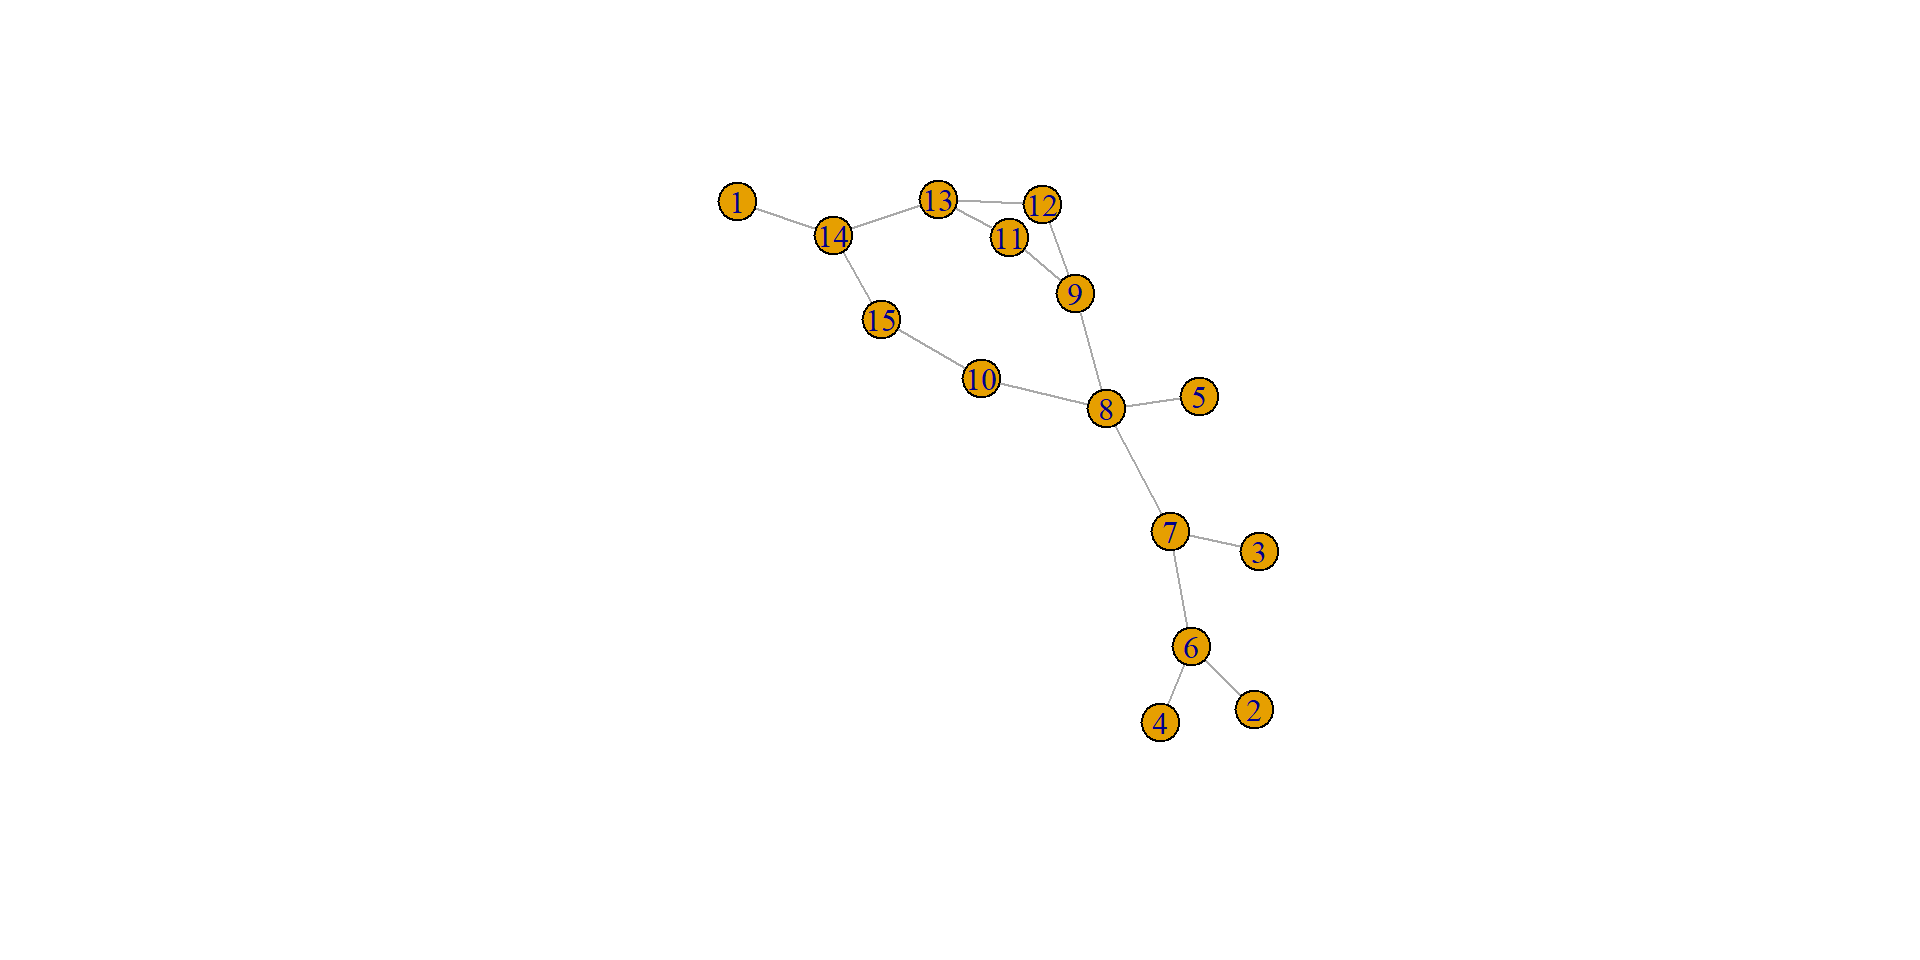
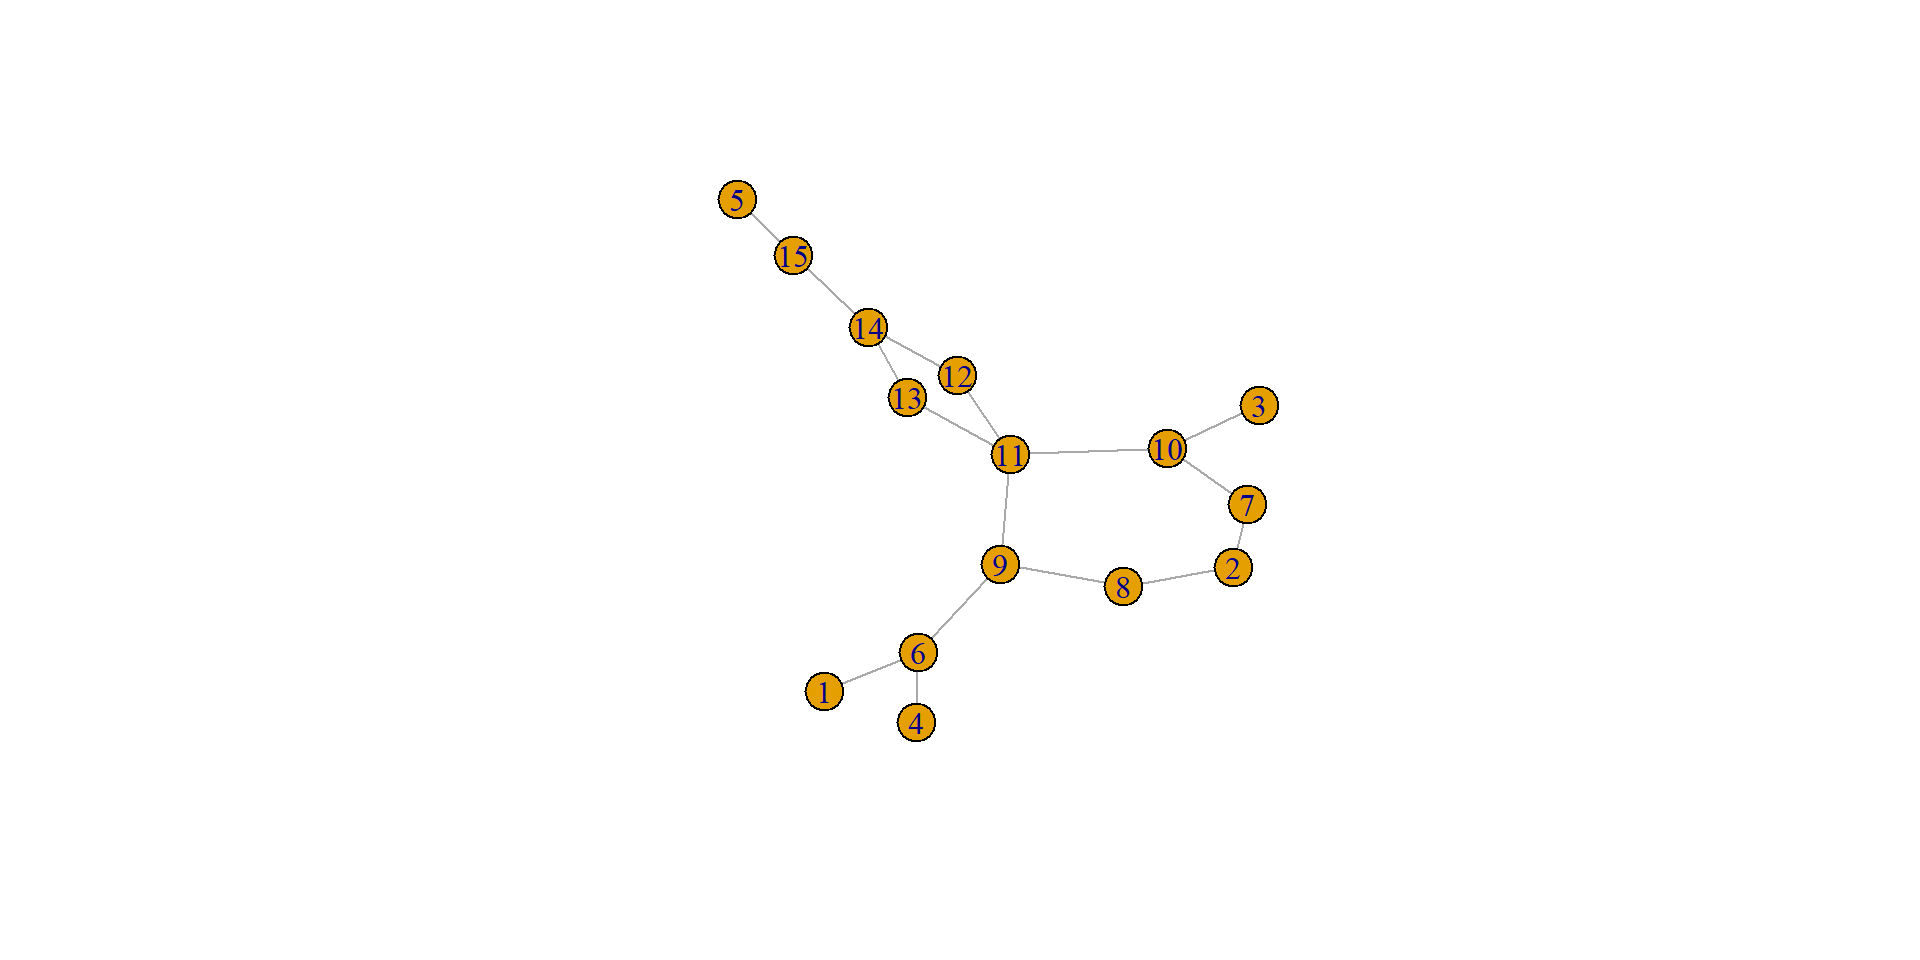
new quarto presentation

diff --git a/05_23_presentation.html b/05_23_presentation.html
@@ -215,7 +215,7 @@ Haochu
 <details class="code-fold">
 <summary>expand for full code</summary>
 <div class="sourceCode cell-code" id="cb1"><pre class="sourceCode numberSource r number-lines code-with-copy"><code class="sourceCode r"><span id="cb1-1"><a href=""></a><span class="fu">source</span>(<span class="st">"sim_gene/sim_ARG.r"</span>)</span>
-<span id="cb1-2"><a href=""></a><span class="fu">set.seed</span>(<span class="dv">10</span>)</span>
+<span id="cb1-2"><a href=""></a><span class="fu">set.seed</span>(<span class="dv">11</span>)</span>
 <span id="cb1-3"><a href=""></a>tree <span class="ot">&lt;-</span> <span class="fu">sim_ARG</span>(<span class="dv">5</span>, <span class="dv">1</span>)</span>
 <span id="cb1-4"><a href=""></a>tree_matrix <span class="ot">&lt;-</span> <span class="fu">as.matrix</span>(tree<span class="sc">$</span>edge[, <span class="fu">c</span>(<span class="dv">1</span>, <span class="dv">2</span>)])</span>
 <span id="cb1-5"><a href=""></a>g <span class="ot">&lt;-</span> <span class="fu">graph_from_edgelist</span>(tree_matrix, <span class="at">directed =</span> <span class="cn">FALSE</span>)</span>
@@ -225,14 +225,14 @@ Haochu
 
 </div>
 <img data-src="05_23_presentation_files/figure-revealjs/unnamed-chunk-2-1.png" width="960" class="r-stretch"></section>
-<section id="event-time" class="slide level2">
-<h2>Event Time</h2>
+<section id="birth-and-death-process" class="slide level2">
+<h2>Birth and Death Process</h2>
 <p>We can consider the coalescent and recombination as a birth and death process. Let <span class="math inline">\(N(t)\)</span> be the number of alleles at time <span class="math inline">\(t\)</span>. The birth rate is <span class="math inline">\(\rho N(t)/2\)</span>, and the death rate is <span class="math inline">\(N(t)(N(t)-1)/2\)</span>. And the deterministic expression of <span class="math inline">\(N(t)\)</span> is <span class="math display">\[
 \frac{dN(t)}{dt} = \frac{\rho N(t) - N(t)^2 + N(t)}{2}.
 \]</span></p>
 </section>
-<section id="event-time-1" class="slide level2">
-<h2>Event Time</h2>
+<section id="birth-and-death-process-1" class="slide level2">
+<h2>Birth and Death Process</h2>
 <p>Run the simulation 10 times with initially <span class="math inline">\(20\)</span> alleles and <span class="math inline">\(\rho=1\)</span>.</p>
 
 <img data-src="05_23_presentation_files/figure-revealjs/unnamed-chunk-3-1.png" width="960" class="r-stretch"></section>
@@ -248,23 +248,23 @@ Haochu
 </details>
 <div class="cell-output cell-output-stdout">
 <pre><code># A tibble: 15 × 5
-   index  height material      gene      gene_str             
-   &lt;int&gt;   &lt;dbl&gt; &lt;list&gt;        &lt;list&gt;    &lt;chr&gt;                
- 1     1 0       &lt;iv&lt;dbl&gt; [1]&gt; &lt;dbl [2]&gt; [0.137, 0.48]        
- 2     2 0       &lt;iv&lt;dbl&gt; [1]&gt; &lt;dbl [3]&gt; [0.147, 0.226, 0.266]
- 3     3 0       &lt;iv&lt;dbl&gt; [1]&gt; &lt;dbl [2]&gt; [0.226, 0.266]       
- 4     4 0       &lt;iv&lt;dbl&gt; [1]&gt; &lt;dbl [3]&gt; [0.147, 0.226, 0.266]
- 5     5 0       &lt;iv&lt;dbl&gt; [1]&gt; &lt;dbl [2]&gt; [0.226, 0.266]       
- 6    10 0.00120 &lt;iv&lt;dbl&gt; [1]&gt; &lt;dbl [3]&gt; [0.147, 0.226, 0.266]
- 7    11 0.306   &lt;iv&lt;dbl&gt; [1]&gt; &lt;dbl [2]&gt; [0.226, 0.266]       
- 8    12 0.358   &lt;iv&lt;dbl&gt; [1]&gt; &lt;dbl [2]&gt; [0.226, 0.266]       
- 9    13 1.52    &lt;iv&lt;dbl&gt; [1]&gt; &lt;dbl [0]&gt; []                   
-10    14 1.52    &lt;iv&lt;dbl&gt; [1]&gt; &lt;dbl [2]&gt; [0.226, 0.266]       
-11    15 1.81    &lt;iv&lt;dbl&gt; [1]&gt; &lt;dbl [0]&gt; []                   
-12    16 1.81    &lt;iv&lt;dbl&gt; [0]&gt; &lt;dbl [0]&gt; []                   
-13    17 1.95    &lt;iv&lt;dbl&gt; [1]&gt; &lt;dbl [0]&gt; []                   
-14    18 2.31    &lt;iv&lt;dbl&gt; [1]&gt; &lt;dbl [0]&gt; []                   
-15    19 2.46    &lt;iv&lt;dbl&gt; [1]&gt; &lt;dbl [0]&gt; []                   </code></pre>
+   index height material      gene      gene_str
+   &lt;int&gt;  &lt;dbl&gt; &lt;list&gt;        &lt;list&gt;    &lt;chr&gt;   
+ 1     1 0      &lt;iv&lt;dbl&gt; [1]&gt; &lt;dbl [1]&gt; [0.216] 
+ 2     2 0      &lt;iv&lt;dbl&gt; [1]&gt; &lt;dbl [1]&gt; [0.216] 
+ 3     3 0      &lt;iv&lt;dbl&gt; [1]&gt; &lt;dbl [1]&gt; [0.216] 
+ 4     4 0      &lt;iv&lt;dbl&gt; [1]&gt; &lt;dbl [1]&gt; [0.216] 
+ 5     5 0      &lt;iv&lt;dbl&gt; [1]&gt; &lt;dbl [1]&gt; [0.521] 
+ 6    10 0.0642 &lt;iv&lt;dbl&gt; [1]&gt; &lt;dbl [1]&gt; [0.216] 
+ 7    11 0.0717 &lt;iv&lt;dbl&gt; [1]&gt; &lt;dbl [1]&gt; [0.216] 
+ 8    12 0.0717 &lt;iv&lt;dbl&gt; [1]&gt; &lt;dbl [1]&gt; [0.216] 
+ 9    13 0.174  &lt;iv&lt;dbl&gt; [1]&gt; &lt;dbl [1]&gt; [0.216] 
+10    14 0.380  &lt;iv&lt;dbl&gt; [1]&gt; &lt;dbl [1]&gt; [0.216] 
+11    15 0.635  &lt;iv&lt;dbl&gt; [1]&gt; &lt;dbl [1]&gt; [0.216] 
+12    16 1.28   &lt;iv&lt;dbl&gt; [1]&gt; &lt;dbl [0]&gt; []      
+13    17 1.28   &lt;iv&lt;dbl&gt; [1]&gt; &lt;dbl [0]&gt; []      
+14    18 1.28   &lt;iv&lt;dbl&gt; [1]&gt; &lt;dbl [0]&gt; []      
+15    19 1.60   &lt;iv&lt;dbl&gt; [1]&gt; &lt;dbl [0]&gt; []      </code></pre>
 </div>
 </div>
 </section>
@@ -275,30 +275,57 @@ Haochu
 <details class="code-fold">
 <summary>expand for full code</summary>
 <div class="sourceCode cell-code" id="cb4"><pre class="sourceCode numberSource r number-lines code-with-copy"><code class="sourceCode r"><span id="cb4-1"><a href=""></a><span class="fu">source</span>(<span class="st">"sim_gene/local_ARG.r"</span>)</span>
-<span id="cb4-2"><a href=""></a>local_tree <span class="ot">&lt;-</span> <span class="fu">local_ARG</span>(tree, <span class="fl">0.5</span>)</span>
-<span id="cb4-3"><a href=""></a>local_tree_matrix <span class="ot">&lt;-</span> <span class="fu">as.matrix</span>(local_tree<span class="sc">$</span>edge[, <span class="fu">c</span>(<span class="dv">1</span>, <span class="dv">2</span>)])</span>
-<span id="cb4-4"><a href=""></a>local_g <span class="ot">&lt;-</span> <span class="fu">graph_from_edgelist</span>(local_tree_matrix, <span class="at">directed =</span> <span class="cn">FALSE</span>)</span>
-<span id="cb4-5"><a href=""></a>local_g <span class="ot">&lt;-</span> <span class="fu">delete_vertices</span>(local_g, <span class="fu">V</span>(local_g)[<span class="fu">degree</span>(local_g) <span class="sc">==</span> <span class="dv">0</span>])</span>
-<span id="cb4-6"><a href=""></a><span class="fu">plot</span>(local_g)</span></code><button title="Copy to Clipboard" class="code-copy-button"><i class="bi"></i></button></pre></div>
+<span id="cb4-2"><a href=""></a>local_tree1 <span class="ot">&lt;-</span> <span class="fu">local_ARG</span>(tree, <span class="fl">0.1</span>)</span>
+<span id="cb4-3"><a href=""></a>local_tree1_matrix <span class="ot">&lt;-</span> <span class="fu">as.matrix</span>(local_tree1<span class="sc">$</span>edge[, <span class="fu">c</span>(<span class="dv">1</span>, <span class="dv">2</span>)])</span>
+<span id="cb4-4"><a href=""></a>local_g1 <span class="ot">&lt;-</span> <span class="fu">graph_from_edgelist</span>(local_tree1_matrix, <span class="at">directed =</span> <span class="cn">FALSE</span>)</span>
+<span id="cb4-5"><a href=""></a>local_g1 <span class="ot">&lt;-</span> <span class="fu">delete_vertices</span>(local_g1, <span class="fu">V</span>(local_g1)[<span class="fu">degree</span>(local_g1) <span class="sc">==</span> <span class="dv">0</span>])</span>
+<span id="cb4-6"><a href=""></a><span class="fu">plot</span>(local_g1)</span></code><button title="Copy to Clipboard" class="code-copy-button"><i class="bi"></i></button></pre></div>
 </details>
 
 </div>
 <img data-src="05_23_presentation_files/figure-revealjs/unnamed-chunk-5-1.png" width="960" class="r-stretch"></section>
 <section id="local-arg-1" class="slide level2">
 <h2>Local ARG</h2>
+<div class="cell">
+<details class="code-fold">
+<summary>expand for full code</summary>
+<div class="sourceCode cell-code" id="cb5"><pre class="sourceCode numberSource r number-lines code-with-copy"><code class="sourceCode r"><span id="cb5-1"><a href=""></a>local_tree2 <span class="ot">&lt;-</span> <span class="fu">local_ARG</span>(tree, <span class="fl">0.2</span>)</span>
+<span id="cb5-2"><a href=""></a>local_tree2_matrix <span class="ot">&lt;-</span> <span class="fu">as.matrix</span>(local_tree2<span class="sc">$</span>edge[, <span class="fu">c</span>(<span class="dv">1</span>, <span class="dv">2</span>)])</span>
+<span id="cb5-3"><a href=""></a>local_g2 <span class="ot">&lt;-</span> <span class="fu">graph_from_edgelist</span>(local_tree2_matrix, <span class="at">directed =</span> <span class="cn">FALSE</span>)</span>
+<span id="cb5-4"><a href=""></a>local_g2 <span class="ot">&lt;-</span> <span class="fu">delete_vertices</span>(local_g2, <span class="fu">V</span>(local_g2)[<span class="fu">degree</span>(local_g2) <span class="sc">==</span> <span class="dv">0</span>])</span>
+<span id="cb5-5"><a href=""></a><span class="fu">plot</span>(local_g2)</span></code><button title="Copy to Clipboard" class="code-copy-button"><i class="bi"></i></button></pre></div>
+</details>
+
+</div>
+<img data-src="05_23_presentation_files/figure-revealjs/unnamed-chunk-6-1.png" width="960" class="r-stretch"></section>
+<section id="local-arg-2" class="slide level2">
+<h2>Local ARG</h2>
 <p>Convert the our local ARG to a <code>phylo</code> object that can be plotted by <code>ape::plot.phylo</code>.</p>
 <div class="cell">
 <details class="code-fold">
 <summary>expand for full code</summary>
-<div class="sourceCode cell-code" id="cb5"><pre class="sourceCode numberSource r number-lines code-with-copy"><code class="sourceCode r"><span id="cb5-1"><a href=""></a><span class="fu">library</span>(ape)</span>
-<span id="cb5-2"><a href=""></a><span class="fu">source</span>(<span class="st">"sim_gene/localARG_to_phylo.r"</span>)</span>
-<span id="cb5-3"><a href=""></a>phylo_tree <span class="ot">&lt;-</span> <span class="fu">localARG_to_phylo</span>(local_tree)</span>
-<span id="cb5-4"><a href=""></a><span class="fu">plot</span>(phylo_tree)</span></code><button title="Copy to Clipboard" class="code-copy-button"><i class="bi"></i></button></pre></div>
+<div class="sourceCode cell-code" id="cb6"><pre class="sourceCode numberSource r number-lines code-with-copy"><code class="sourceCode r"><span id="cb6-1"><a href=""></a><span class="fu">library</span>(ape)</span>
+<span id="cb6-2"><a href=""></a><span class="fu">source</span>(<span class="st">"sim_gene/localARG_to_phylo.r"</span>)</span>
+<span id="cb6-3"><a href=""></a>phylo_tree1 <span class="ot">&lt;-</span> <span class="fu">localARG_to_phylo</span>(local_tree1)</span>
+<span id="cb6-4"><a href=""></a><span class="fu">plot</span>(phylo_tree1)</span></code><button title="Copy to Clipboard" class="code-copy-button"><i class="bi"></i></button></pre></div>
+</details>
+
+</div>
+<img data-src="05_23_presentation_files/figure-revealjs/unnamed-chunk-7-1.png" width="960" class="r-stretch"></section>
+<section id="local-arg-3" class="slide level2">
+<h2>Local ARG</h2>
+<div class="cell">
+<details class="code-fold">
+<summary>expand for full code</summary>
+<div class="sourceCode cell-code" id="cb7"><pre class="sourceCode numberSource r number-lines code-with-copy"><code class="sourceCode r"><span id="cb7-1"><a href=""></a><span class="fu">library</span>(ape)</span>
+<span id="cb7-2"><a href=""></a><span class="fu">source</span>(<span class="st">"sim_gene/localARG_to_phylo.r"</span>)</span>
+<span id="cb7-3"><a href=""></a>phylo_tree2 <span class="ot">&lt;-</span> <span class="fu">localARG_to_phylo</span>(local_tree2)</span>
+<span id="cb7-4"><a href=""></a><span class="fu">plot</span>(phylo_tree2)</span></code><button title="Copy to Clipboard" class="code-copy-button"><i class="bi"></i></button></pre></div>
 </details>
 
 </div>
 
-<img data-src="05_23_presentation_files/figure-revealjs/unnamed-chunk-6-1.png" width="960" class="r-stretch"></section>
+<img data-src="05_23_presentation_files/figure-revealjs/unnamed-chunk-8-1.png" width="960" class="r-stretch"></section>
     </div>
   <div class="quarto-auto-generated-content" style="display: none;">
 <div class="footer footer-default">
